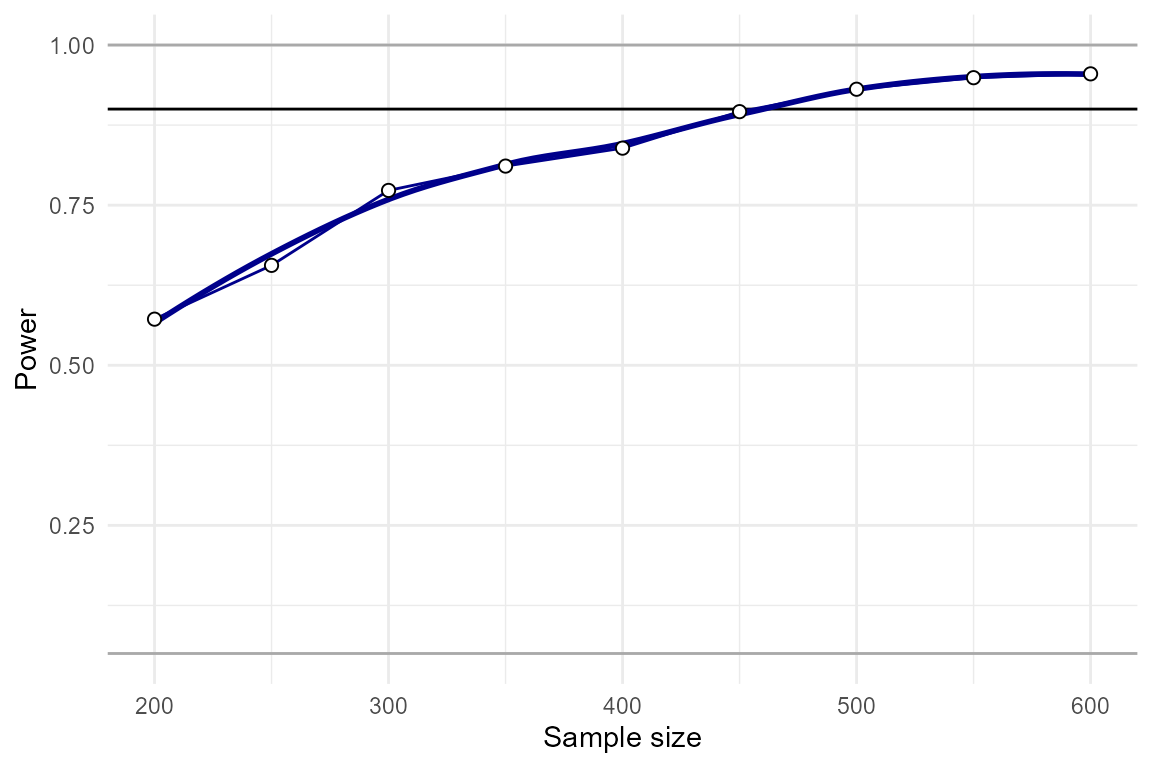
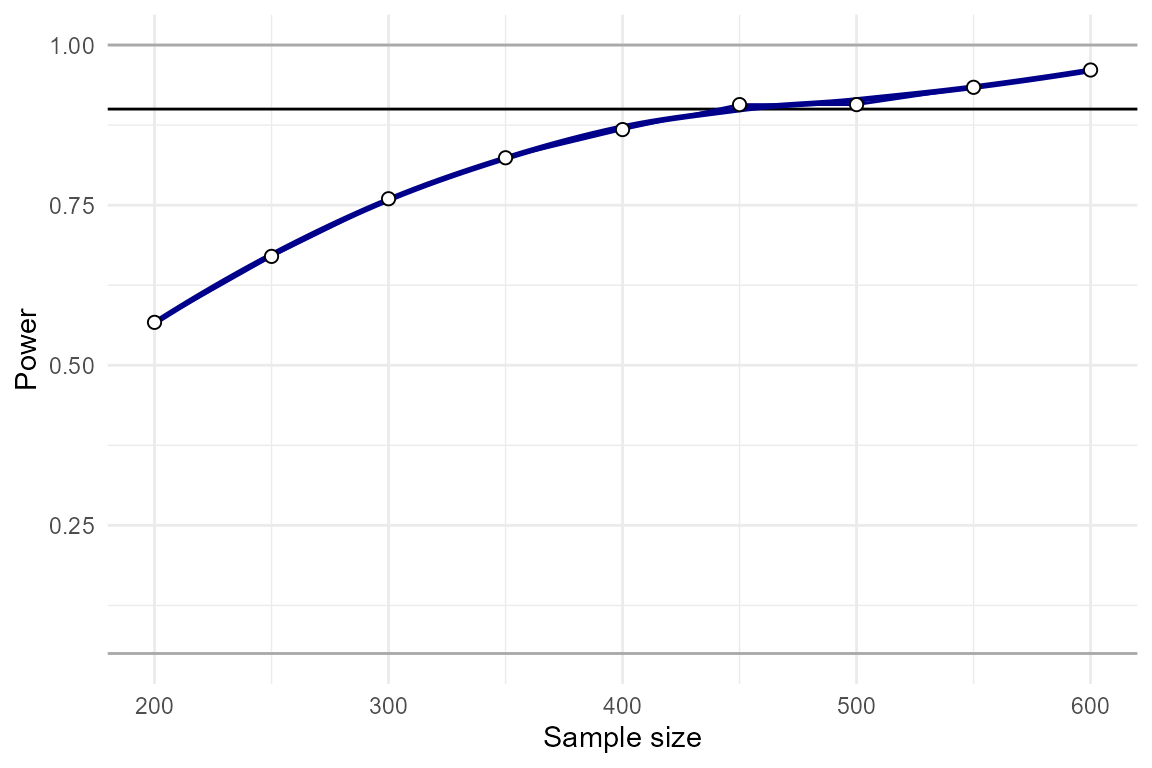
minor fix

diff --git a/docs/articles/InteractionPoweRvignette.html b/docs/articles/InteractionPoweRvignette.html
@@ -237,22 +237,22 @@ Y \sim \beta_0 + X_1\beta_1 + X_2\beta_2 + X_1X_2\beta_3 + \epsilon
                   r.x2.y <span class="op">=</span>  <span class="fl">.1</span>,                  <span class="co"># correlation between x2 and y</span>
                   r.x1.x2 <span class="op">=</span> <span class="fl">.2</span>,                  <span class="co"># correlation between x1 and x2</span>
                   r.x1x2.y <span class="op">=</span> <span class="fl">.15</span>,                <span class="co"># correlation between x1x2 and y</span>
-                  cl <span class="op">=</span> <span class="fl">6</span>,                        <span class="co"># number of clusters for parallel analyses</span>
+                  cl <span class="op">=</span> <span class="fl">2</span>,                        <span class="co"># number of clusters for parallel analyses</span>
                   seed <span class="op">=</span> <span class="fl">507421</span>        <span class="op">)</span>         <span class="co"># seed</span></code></pre></div>
 <pre><code><span class="co">## [1] "Checking for errors in inputs..."</span>
 <span class="co">## [1] "Performing 9000 simulations"</span></code></pre>
 <div class="sourceCode" id="cb11"><pre class="downlit sourceCode r">
 <code class="sourceCode R"><span class="va">power_test</span></code></pre></div>
 <pre><code><span class="co">##     N   pwr</span>
-<span class="co">## 9 200 0.572</span>
-<span class="co">## 3 250 0.656</span>
-<span class="co">## 8 300 0.773</span>
-<span class="co">## 1 350 0.811</span>
-<span class="co">## 2 400 0.839</span>
-<span class="co">## 5 450 0.896</span>
-<span class="co">## 4 500 0.931</span>
-<span class="co">## 7 550 0.949</span>
-<span class="co">## 6 600 0.955</span></code></pre>
+<span class="co">## 6 200 0.567</span>
+<span class="co">## 7 250 0.670</span>
+<span class="co">## 1 300 0.760</span>
+<span class="co">## 2 350 0.824</span>
+<span class="co">## 3 400 0.868</span>
+<span class="co">## 4 450 0.907</span>
+<span class="co">## 8 500 0.907</span>
+<span class="co">## 9 550 0.934</span>
+<span class="co">## 5 600 0.961</span></code></pre>
 <p>We can plot these results using the function <code><a href="../reference/plot_power_curve.html">plot_power_curve()</a></code>:</p>
 <div class="sourceCode" id="cb13"><pre class="downlit sourceCode r">
 <code class="sourceCode R"><span class="fu"><a href="../reference/plot_power_curve.html">plot_power_curve</a></span><span class="op">(</span>power_data <span class="op">=</span> <span class="va">power_test</span>, <span class="co"># output from power_interaction()</span>
@@ -265,7 +265,7 @@ Y \sim \beta_0 + X_1\beta_1 + X_2\beta_2 + X_1X_2\beta_3 + \epsilon
                         x <span class="op">=</span> <span class="st">"N"</span>,        <span class="co"># the variable we want a precise number for</span>
              power_target <span class="op">=</span> <span class="fl">0.9</span>         <span class="co"># the power we want to achieve </span>
 <span class="op">)</span></code></pre></div>
-<pre><code><span class="co">## [1] 449.3587</span></code></pre>
+<pre><code><span class="co">## [1] 441.0214</span></code></pre>
 <p>Our guess turned out to be accurate in this case, and N=443 yields approximately 90% power.</p>
 </div>
 <div class="section level3">
@@ -280,24 +280,24 @@ Y \sim \beta_0 + X_1\beta_1 + X_2\beta_2 + X_1X_2\beta_3 + \epsilon
                   r.x2.y <span class="op">=</span>  <span class="fl">.1</span>,                  <span class="co"># correlation between x2 and y</span>
                   r.x1.x2 <span class="op">=</span> <span class="fl">.2</span>,                  <span class="co"># correlation between x1 and x2</span>
                   r.x1x2.y <span class="op">=</span> <span class="fu"><a href="https://rdrr.io/r/base/seq.html" class="external-link">seq</a></span><span class="op">(</span><span class="fl">.1</span>,<span class="fl">.2</span>,by<span class="op">=</span><span class="fl">.01</span><span class="op">)</span>,  <span class="co"># correlation between x1x2 and y</span>
-                  cl <span class="op">=</span> <span class="fl">6</span>,                        <span class="co"># number of clusters for parallel analyses</span>
+                  cl <span class="op">=</span> <span class="fl">2</span>,                        <span class="co"># number of clusters for parallel analyses</span>
                   seed <span class="op">=</span> <span class="fl">387455</span>        <span class="op">)</span>         <span class="co"># seed</span></code></pre></div>
 <pre><code><span class="co">## [1] "Checking for errors in inputs..."</span>
 <span class="co">## [1] "Performing 11000 simulations"</span></code></pre>
 <div class="sourceCode" id="cb18"><pre class="downlit sourceCode r">
 <code class="sourceCode R"><span class="va">power_test</span></code></pre></div>
 <pre><code><span class="co">##    r.x1x2.y   pwr</span>
-<span class="co">## 9      0.10 0.486</span>
-<span class="co">## 3      0.11 0.536</span>
-<span class="co">## 5      0.12 0.633</span>
-<span class="co">## 1      0.13 0.687</span>
-<span class="co">## 10     0.14 0.757</span>
-<span class="co">## 2      0.15 0.823</span>
-<span class="co">## 11     0.16 0.866</span>
-<span class="co">## 7      0.17 0.891</span>
-<span class="co">## 8      0.18 0.910</span>
-<span class="co">## 6      0.19 0.933</span>
-<span class="co">## 4      0.20 0.964</span></code></pre>
+<span class="co">## 1      0.10 0.467</span>
+<span class="co">## 7      0.11 0.536</span>
+<span class="co">## 2      0.12 0.653</span>
+<span class="co">## 3      0.13 0.680</span>
+<span class="co">## 4      0.14 0.765</span>
+<span class="co">## 5      0.15 0.804</span>
+<span class="co">## 8      0.16 0.875</span>
+<span class="co">## 9      0.17 0.904</span>
+<span class="co">## 10     0.18 0.915</span>
+<span class="co">## 6      0.19 0.941</span>
+<span class="co">## 11     0.20 0.959</span></code></pre>
 <div class="sourceCode" id="cb20"><pre class="downlit sourceCode r">
 <code class="sourceCode R"><span class="fu"><a href="../reference/plot_power_curve.html">plot_power_curve</a></span><span class="op">(</span>power_data <span class="op">=</span> <span class="va">power_test</span>, <span class="co"># output from power_interaction()</span>
                  power_target <span class="op">=</span> <span class="fl">.9</span>        <span class="co"># the power we want to achieve </span>
@@ -308,7 +308,7 @@ Y \sim \beta_0 + X_1\beta_1 + X_2\beta_2 + X_1X_2\beta_3 + \epsilon
                         x <span class="op">=</span> <span class="st">"r.x1x2.y"</span>,        <span class="co"># the variable we want a precise number for</span>
              power_target <span class="op">=</span> <span class="fl">0.9</span>         <span class="co"># the power we want to achieve </span>
 <span class="op">)</span></code></pre></div>
-<pre><code><span class="co">## [1] 0.1734518</span></code></pre>
+<pre><code><span class="co">## [1] 0.1712896</span></code></pre>
 <p>We see that we have approximately 90% power to detect effects as small as <code>r.x1x2.y</code> = 0.17.</p>
 <p>In some cases it may also be useful to take a look the distribution of simple slopes across the range of parameters tested. If we re-run our simulation using <code>detailed_results=T</code>, we can look at the distribution of effect sizes and simple slopes.</p>
 <div class="sourceCode" id="cb23"><pre class="downlit sourceCode r">
@@ -319,7 +319,7 @@ Y \sim \beta_0 + X_1\beta_1 + X_2\beta_2 + X_1X_2\beta_3 + \epsilon
                   r.x2.y <span class="op">=</span>  <span class="fl">.1</span>,                  <span class="co"># correlation between x2 and y</span>
                   r.x1.x2 <span class="op">=</span> <span class="fl">.2</span>,                  <span class="co"># correlation between x1 and x2</span>
                   r.x1x2.y <span class="op">=</span> <span class="fu"><a href="https://rdrr.io/r/base/seq.html" class="external-link">seq</a></span><span class="op">(</span><span class="fl">.1</span>,<span class="fl">.2</span>,by<span class="op">=</span><span class="fl">.01</span><span class="op">)</span>,   <span class="co"># correlation between x1x2 and y</span>
-                  cl <span class="op">=</span> <span class="fl">6</span>,                         <span class="co"># number of clusters for parallel analyses</span>
+                  cl <span class="op">=</span> <span class="fl">2</span>,                         <span class="co"># number of clusters for parallel analyses</span>
                   detailed_results <span class="op">=</span> <span class="cn">T</span>,           <span class="co"># detailed results</span>
                   seed <span class="op">=</span> <span class="fl">316834</span>                  <span class="co"># seed</span>
                 <span class="op">)</span></code></pre></div>
@@ -342,7 +342,7 @@ Y \sim \beta_0 + X_1\beta_1 + X_2\beta_2 + X_1X_2\beta_3 + \epsilon
                   r.x2.y <span class="op">=</span> <span class="fl">.1</span>,                    <span class="co"># correlation between x2 and y</span>
                   r.x1.x2 <span class="op">=</span> <span class="fl">.2</span>       ,            <span class="co"># correlation between x1 and x2</span>
                   r.x1x2.y <span class="op">=</span> <span class="fu"><a href="https://rdrr.io/r/base/seq.html" class="external-link">seq</a></span><span class="op">(</span><span class="fl">.15</span>,<span class="fl">.2</span>,by<span class="op">=</span><span class="fl">.025</span><span class="op">)</span>, <span class="co"># correlation between x1x2 and y</span>
-                  cl <span class="op">=</span> <span class="fl">6</span>,                         <span class="co"># number of clusters for parallel analyses</span>
+                  cl <span class="op">=</span> <span class="fl">2</span>,                         <span class="co"># number of clusters for parallel analyses</span>
                   detailed_results <span class="op">=</span> <span class="cn">T</span>,
                   seed <span class="op">=</span> <span class="fl">742425</span><span class="op">)</span></code></pre></div>
 <pre><code><span class="co">## [1] "Checking for errors in inputs..."</span>
@@ -360,9 +360,9 @@ Y \sim \beta_0 + X_1\beta_1 + X_2\beta_2 + X_1X_2\beta_3 + \epsilon
              power_target <span class="op">=</span> <span class="fl">0.9</span>         <span class="co"># the power we want to achieve </span>
 <span class="op">)</span></code></pre></div>
 <pre><code><span class="co">##   r.x1x2.y estimate</span>
-<span class="co">## 1    0.150 442.0470</span>
-<span class="co">## 2    0.175 331.1472</span>
-<span class="co">## 3    0.200 268.3371</span></code></pre>
+<span class="co">## 1    0.150 447.9153</span>
+<span class="co">## 2    0.175 330.1380</span>
+<span class="co">## 3    0.200 250.1208</span></code></pre>
 <p>From this we’ve learned that, depending on exactly what effect size we’re aiming for, we’ll need an <code>N</code> between 260 and 460.</p>
 </div>
 </div>
@@ -381,7 +381,7 @@ Y \sim \beta_0 + X_1\beta_1 + X_2\beta_2 + X_1X_2\beta_3 + \epsilon
                   rel.x1 <span class="op">=</span>  <span class="fu"><a href="https://rdrr.io/r/base/seq.html" class="external-link">seq</a></span><span class="op">(</span><span class="fl">.4</span>,<span class="fl">1</span>,by<span class="op">=</span><span class="fl">.2</span><span class="op">)</span>,      <span class="co"># x1 reliability    </span>
                   rel.x2 <span class="op">=</span>  <span class="fu"><a href="https://rdrr.io/r/base/seq.html" class="external-link">seq</a></span><span class="op">(</span><span class="fl">.4</span>,<span class="fl">1</span>,by<span class="op">=</span><span class="fl">.2</span><span class="op">)</span>,      <span class="co"># x2 reliability          </span>
                   rel.y  <span class="op">=</span>  <span class="fu"><a href="https://rdrr.io/r/base/seq.html" class="external-link">seq</a></span><span class="op">(</span><span class="fl">.4</span>,<span class="fl">1</span>,by<span class="op">=</span><span class="fl">.2</span><span class="op">)</span>,      <span class="co"># y reliability          </span>
-                  cl <span class="op">=</span> <span class="fl">6</span>,                         <span class="co"># number of clusters for parallel analyses</span>
+                  cl <span class="op">=</span> <span class="fl">2</span>,                         <span class="co"># number of clusters for parallel analyses</span>
                   seed <span class="op">=</span> <span class="fl">293437</span>        <span class="op">)</span></code></pre></div>
 <pre><code><span class="co">## [1] "Checking for errors in inputs..."</span>
 <span class="co">## [1] "Performing 64000 simulations"</span></code></pre>
@@ -396,11 +396,11 @@ Y \sim \beta_0 + X_1\beta_1 + X_2\beta_2 + X_1X_2\beta_3 + \epsilon
 <p>These plots make it clear how large of an effect reliability will have on your results. In this simulation, even a reliability of “acceptable” or “good” (reliability = 0.8), is enough to bring our power down, from 0.9 to 0.63!</p>
 </div>
 <div class="section level2">
-<h2 id="binarylikert-and-skewed-variables">Binary/Likert and skewed variables<a class="anchor" aria-label="anchor" href="#binarylikert-and-skewed-variables"></a>
+<h2 id="binaryordinal-and-skewed-variables">Binary/ordinal and skewed variables<a class="anchor" aria-label="anchor" href="#binaryordinal-and-skewed-variables"></a>
 </h2>
-<p><code>InteractionPoweR</code> simulates all variables as continuous and normal (skew=0). However, variables can be transformed so that they are binary/likert (e.g., 5 discrete levels, though any value under 20 is possible) and/or skewed. Typically, when a continuous and normal variable is transformed to be binary/likert and/or skewed, the correlations between that variable and all other variables are reduced or altered. Sometimes, it makes sense for this to happen in the power analysis. For example, say a variable is continuous in the literature, and the effect sizes in the power analysis are drawn from prior work with the continuous variable, but in your analysis you’ve chosen to dichotomize that variable or to measure that trait with a likert scale. In that case, the reduction in correlations makes sense, because that accurately reflects your data analysis and what your power will be. On the other hand, say a variable <em>is</em> binary (at least in the literature), maybe you’re looking at sex or diagnosis for a disorder. Or maybe you are looking at a variable that is skewed in the literature, such as alcohol consumption or depressive symptoms in the general population. In that case, your input correlations are the correlations <em>with the binary/skewed variable</em>, so you don’t want them to be reduced or altered.</p>
-<p><code>InteractionPoweR</code> distinguishes between these cases with the <code>adjust.correlations</code> flag. The default is <code>adjust.correlations = TRUE</code>. This indicates that the input correlations are with the binary/likert/skewed variables. To circumvent the problem of variable transformations altering correlations, <code>InteractionPoweR</code> runs a function to compute how much the input correlations need to be adjusted so that the final output variables have the correlation structure specified by the user. When <code>adjust.correlations = FALSE</code>, this function is not run, allowing the user to see the impact of variable transformations on the correlation structure, and on their power.</p>
-<p>The flags <code>skew.x1</code>, <code>skew.x2</code>, and <code>skew.y</code> control the skew of <span class="math inline">\(X_1\)</span>, <span class="math inline">\(X_2\)</span>, and <span class="math inline">\(Y\)</span>. We achieve skew by transforming the normally distributed variable to a skewed gamma distribution. The flags <code>k.x1</code>, <code>k.x2</code>, and <code>k.y</code> control the number of discrete values each variable takes (i.e., <code>k.x1 =2</code> means that <code>x1</code> is a binary variable, while <code>k.x2 = 5</code> means that <code>x2</code> is a likert-variable). If a variable is binary (i.e., <code>k=2</code>), the <code><a href="../reference/binary.p2skew.html">binary.p2skew()</a></code> convenience function can be used to compute the skew from the proportion of 0’s and 1’s (i.e. 50/50 = 0.5 = a skew of 0). If a variable is binarized but no skew is specified, skew will be set to <code>0</code> by default. The flags <code>transform.x1</code>, <code>transform.x2</code>, and <code>transform.y</code>are retained for backwards compatibility with prior versions of the package. Setting one of these to <code>"binary"</code> is equivalent to <code>k=2</code>.</p>
+<p><code>InteractionPoweR</code> simulates all variables as continuous and normal (skew=0). However, variables can be transformed so that they are binary/ordinal (e.g., 5 discrete levels, though any value under 20 is possible) and/or skewed. Typically, when a continuous and normal variable is transformed to be binary/ordinal and/or skewed, the correlations between that variable and all other variables are reduced or altered. Sometimes, it makes sense for this to happen in the power analysis. For example, say a variable is continuous in the literature, and the effect sizes in the power analysis are drawn from prior work with the continuous variable, but in your analysis you’ve chosen to dichotomize that variable or to measure that trait with a ordinal scale. In that case, the reduction in correlations makes sense, because that accurately reflects your data analysis and what your power will be. On the other hand, say a variable <em>is</em> binary (at least in the literature), maybe you’re looking at sex or diagnosis for a disorder. Or maybe you are looking at a variable that is skewed in the literature, such as alcohol consumption or depressive symptoms in the general population. In that case, your input correlations are the correlations <em>with the binary/skewed variable</em>, so you don’t want them to be reduced or altered.</p>
+<p><code>InteractionPoweR</code> distinguishes between these cases with the <code>adjust.correlations</code> flag. The default is <code>adjust.correlations = TRUE</code>. This indicates that the input correlations are with the binary/ordinal/skewed variables. To circumvent the problem of variable transformations altering correlations, <code>InteractionPoweR</code> runs a function to compute how much the input correlations need to be adjusted so that the final output variables have the correlation structure specified by the user. When <code>adjust.correlations = FALSE</code>, this function is not run, allowing the user to see the impact of variable transformations on the correlation structure, and on their power.</p>
+<p>The flags <code>skew.x1</code>, <code>skew.x2</code>, and <code>skew.y</code> control the skew of <span class="math inline">\(X_1\)</span>, <span class="math inline">\(X_2\)</span>, and <span class="math inline">\(Y\)</span>. We achieve skew by transforming the normally distributed variable to a skewed gamma distribution. The flags <code>k.x1</code>, <code>k.x2</code>, and <code>k.y</code> control the number of discrete values each variable takes (i.e., <code>k.x1 =2</code> means that <code>x1</code> is a binary variable, while <code>k.x2 = 5</code> means that <code>x2</code> is a ordinal-variable). If a variable is binary (i.e., <code>k=2</code>), the <code><a href="../reference/binary.p2skew.html">binary.p2skew()</a></code> convenience function can be used to compute the skew from the proportion of 0’s and 1’s (i.e. 50/50 = 0.5 = a skew of 0). If a variable is binarized but no skew is specified, skew will be set to <code>0</code> by default. The flags <code>transform.x1</code>, <code>transform.x2</code>, and <code>transform.y</code>are retained for backwards compatibility with prior versions of the package. Setting one of these to <code>"binary"</code> is equivalent to <code>k=2</code>.</p>
 <div class="section level3">
 <h3 id="binary">Binary<a class="anchor" aria-label="anchor" href="#binary"></a>
 </h3>
@@ -421,22 +421,22 @@ Y \sim \beta_0 + X_1\beta_1 + X_2\beta_2 + X_1X_2\beta_3 + \epsilon
 <p><img src="InteractionPoweRvignette_files/figure-html/fig8-1.png" width="576" style="display: block; margin: auto;"></p>
 </div>
 <div class="section level3">
-<h3 id="likert">Likert<a class="anchor" aria-label="anchor" href="#likert"></a>
+<h3 id="ordinal">ordinal<a class="anchor" aria-label="anchor" href="#ordinal"></a>
 </h3>
 <p>Here’s an example showing the effects of artificially discretizing <code>x1</code> on power. We see that power is lower when there are fewer discrete values.</p>
 <div class="sourceCode" id="cb35"><pre class="downlit sourceCode r">
 <code class="sourceCode R"><span class="va">power_test</span> <span class="op">=</span> <span class="fu"><a href="../reference/power_interaction.html">power_interaction</a></span><span class="op">(</span>
-                  n.iter<span class="op">=</span><span class="fl">10000</span>,
+                  n.iter<span class="op">=</span><span class="fl">1000</span>,
                   N <span class="op">=</span> <span class="fl">450</span>,                        <span class="co"># sample size</span>
                   r.x1.y <span class="op">=</span> <span class="fl">.2</span>,                    <span class="co"># correlation between x1 and y</span>
                   r.x2.y <span class="op">=</span> <span class="fl">.1</span>,                    <span class="co"># correlation between x2 and y</span>
                   r.x1.x2 <span class="op">=</span> <span class="fl">.2</span>,                   <span class="co"># correlation between x1 and x2</span>
                   r.x1x2.y <span class="op">=</span> <span class="fl">.15</span>,                 <span class="co"># correlation between x1x2 and y</span>
                   k.x1 <span class="op">=</span> <span class="fu"><a href="https://rdrr.io/r/base/seq.html" class="external-link">seq</a></span><span class="op">(</span><span class="fl">2</span>,<span class="fl">10</span>,<span class="fl">2</span><span class="op">)</span>,             <span class="co"># x1 has 2-10 discrete values</span>
-                  adjust.correlations <span class="op">=</span> <span class="cn">FALSE</span>,cl<span class="op">=</span><span class="fl">5</span><span class="op">)</span>     <span class="co"># Adjust correlations for skew?  </span></code></pre></div>
-<pre><code><span class="co">## [1] "Seed is 878089"</span>
+                  adjust.correlations <span class="op">=</span> <span class="cn">FALSE</span>,cl<span class="op">=</span><span class="fl">2</span><span class="op">)</span>     <span class="co"># Adjust correlations for skew?  </span></code></pre></div>
+<pre><code><span class="co">## [1] "Seed is 546648"</span>
 <span class="co">## [1] "Checking for errors in inputs..."</span>
-<span class="co">## [1] "Performing 50000 simulations"</span></code></pre>
+<span class="co">## [1] "Performing 5000 simulations"</span></code></pre>
 <div class="sourceCode" id="cb37"><pre class="downlit sourceCode r">
 <code class="sourceCode R"><span class="fu"><a href="../reference/plot_power_curve.html">plot_power_curve</a></span><span class="op">(</span><span class="va">power_test</span>,power_target <span class="op">=</span> <span class="fl">.9</span><span class="op">)</span></code></pre></div>
 <p><img src="InteractionPoweRvignette_files/figure-html/fig9-1.png" width="576" style="display: block; margin: auto;"></p>
@@ -455,7 +455,7 @@ Y \sim \beta_0 + X_1\beta_1 + X_2\beta_2 + X_1X_2\beta_3 + \epsilon
                   r.x1x2.y <span class="op">=</span> <span class="fl">.15</span>,                 <span class="co"># correlation between x1x2 and y</span>
                   skew.x1 <span class="op">=</span> <span class="fu"><a href="https://rdrr.io/r/base/seq.html" class="external-link">seq</a></span><span class="op">(</span><span class="fl">0</span>,<span class="fl">2</span>,by<span class="op">=</span><span class="fl">.25</span><span class="op">)</span>,      <span class="co"># x1 skew </span>
                   adjust.correlations <span class="op">=</span> <span class="cn">TRUE</span>,     <span class="co"># Adjust correlations for skew?</span>
-                  cl <span class="op">=</span> <span class="fl">6</span> ,                        <span class="co"># number of clusters for parallel analyses</span>
+                  cl <span class="op">=</span> <span class="fl">2</span> ,                        <span class="co"># number of clusters for parallel analyses</span>
                   seed <span class="op">=</span> <span class="fl">73070</span>      <span class="op">)</span></code></pre></div>
 <pre><code><span class="co">## [1] "Checking for errors in inputs..."</span>
 <span class="co">## [1] "Adjusting correlations for variable transformations..."</span>
@@ -483,44 +483,44 @@ Y \sim \beta_0 + X_1\beta_1 + X_2\beta_2 + X_1X_2\beta_3 + \epsilon
                   r.x2.y <span class="op">=</span>  <span class="fl">.1</span>,                  <span class="co"># correlation between x2 and y</span>
                   r.x1.x2 <span class="op">=</span> <span class="fl">.2</span>,                  <span class="co"># correlation between x1 and x2</span>
                   r.x1x2.y <span class="op">=</span> <span class="fl">.4</span>,                 <span class="co"># correlation between x1x2 and y</span>
-                  cl <span class="op">=</span> <span class="fl">4</span>,                        <span class="co"># number of clusters for parallel analyses</span>
+                  cl <span class="op">=</span> <span class="fl">2</span>,                        <span class="co"># number of clusters for parallel analyses</span>
                   detailed_results <span class="op">=</span> <span class="cn">TRUE</span>        <span class="co"># return detailed results       </span>
                    <span class="op">)</span></code></pre></div>
-<pre><code><span class="co">## [1] "Seed is 548071"</span>
+<pre><code><span class="co">## [1] "Seed is 8564"</span>
 <span class="co">## [1] "Checking for errors in inputs..."</span>
 <span class="co">## [1] "Performing 4000 simulations"</span></code></pre>
 <div class="sourceCode" id="cb43"><pre class="downlit sourceCode r">
 <code class="sourceCode R"><span class="va">power_test</span></code></pre></div>
 <pre><code><span class="co">##     N   pwr x1_pwr x2_pwr x1x2_est_mean x1x2_r2_mean crossover_mean shape_mean</span>
-<span class="co">## 4  50 0.766  0.721  0.910     0.4536953    0.1848429     -0.1444144   3.694219</span>
-<span class="co">## 2 100 0.977  0.497  0.897     0.3972518    0.1531496     -0.1873501   2.723308</span>
-<span class="co">## 3 150 0.996  0.294  0.872     0.3859812    0.1498095     -0.1632499   2.853891</span>
-<span class="co">## 1 200 1.000  0.187  0.827     0.3905487    0.1536894     -0.1665251   2.472277</span>
+<span class="co">## 1  50 0.784  0.724  0.934     0.4396218    0.1755323     -0.1768402   2.778960</span>
+<span class="co">## 2 100 0.975  0.514  0.898     0.4000345    0.1557723     -0.1727934   3.125164</span>
+<span class="co">## 3 150 0.997  0.330  0.859     0.3935693    0.1536631     -0.1777844   8.743583</span>
+<span class="co">## 4 200 1.000  0.205  0.823     0.3900645    0.1534402     -0.1752575   2.637965</span>
 <span class="co">##   shape_q_2.5 shape_q_97.5 crossover_q_2.5 crossover_q_97.5    min.lwr</span>
-<span class="co">## 4 -18.3021533    21.120756      -0.9254724        0.5590299 -0.5876968</span>
-<span class="co">## 2   0.7119457    12.184385      -0.6994125        0.3219036 -0.4075435</span>
-<span class="co">## 3   0.9317086     8.328247      -0.6397440        0.2422763 -0.3482220</span>
-<span class="co">## 1   1.0668059     7.205046      -0.5444196        0.1849277 -0.3208586</span>
+<span class="co">## 1   -7.402391    25.714963      -0.9012369        0.4309545 -0.5372973</span>
+<span class="co">## 2   -5.538762    10.500007      -0.7753002        0.3325565 -0.4444916</span>
+<span class="co">## 3    0.983842     8.178442      -0.6103052        0.2283472 -0.3815869</span>
+<span class="co">## 4    1.078535     7.039999      -0.5469701        0.1513282 -0.3440493</span>
 <span class="co">##      min.upr   max.lwr   max.upr x1x2_95_CI_2.5_mean x1x2_95_CI_97.5_mean</span>
-<span class="co">## 4 0.22025919 0.1779296 0.9671159           0.1850766            0.7223140</span>
-<span class="co">## 2 0.15915727 0.2311796 0.7998286           0.2131116            0.5813920</span>
-<span class="co">## 3 0.10378754 0.2583628 0.7640846           0.2389831            0.5329792</span>
-<span class="co">## 1 0.06685582 0.3048985 0.7085100           0.2645307            0.5165668</span>
+<span class="co">## 1 0.21347774 0.1543921 0.9334462           0.1715979            0.7076457</span>
+<span class="co">## 2 0.16010414 0.2160005 0.8039076           0.2158121            0.5842568</span>
+<span class="co">## 3 0.11317787 0.2744178 0.7448703           0.2457943            0.5413442</span>
+<span class="co">## 4 0.07411264 0.2878489 0.7230726           0.2638026            0.5163264</span>
 <span class="co">##   x1x2_95_CI_width_mean r_y_x1x2_q_2.5 r_y_x1x2_q_50.0 r_y_x1x2_q_97.5</span>
-<span class="co">## 4             0.5372373      0.2511221       0.4486917       0.6632277</span>
-<span class="co">## 2             0.3682805      0.2178719       0.4036040       0.5745655</span>
-<span class="co">## 3             0.2939960      0.2238670       0.3938605       0.5373888</span>
-<span class="co">## 1             0.2520361      0.2585531       0.3966941       0.5290486</span>
+<span class="co">## 1             0.5360477      0.2363389       0.4291214       0.6617950</span>
+<span class="co">## 2             0.3684447      0.2231182       0.4017803       0.5740193</span>
+<span class="co">## 3             0.2955499      0.2341655       0.3996251       0.5487754</span>
+<span class="co">## 4             0.2525239      0.2560891       0.3965004       0.5297396</span>
 <span class="co">##   x1_est_mean x2_est_mean r_x1_y_mean r_x2_y_mean r_x1_x2_mean r_y_x1x2_mean</span>
-<span class="co">## 4   0.1881823  0.06141081   0.1960492  0.09581274    0.2036743     0.4464441</span>
-<span class="co">## 2   0.1872613  0.07114802   0.1996491  0.10831640    0.1989920     0.3988255</span>
-<span class="co">## 3   0.1891991  0.06136325   0.2016675  0.09795822    0.1996625     0.3920269</span>
-<span class="co">## 1   0.1866205  0.06324363   0.1997234  0.09952032    0.1993793     0.3956262</span>
+<span class="co">## 1   0.1858322  0.07120646   0.1944123  0.10839836    0.2072784     0.4343746</span>
+<span class="co">## 2   0.1846094  0.06539229   0.1927725  0.09836801    0.1998706     0.4011194</span>
+<span class="co">## 3   0.1831947  0.06753903   0.1960705  0.10578625    0.1991194     0.3964611</span>
+<span class="co">## 4   0.1816829  0.06666561   0.1943286  0.10210319    0.1992850     0.3945857</span>
 <span class="co">##   r_x1_x1x2_mean r_x2_x1x2_mean</span>
-<span class="co">## 4  -0.0001681784  -2.044926e-05</span>
-<span class="co">## 2   0.0001481677   1.385871e-03</span>
-<span class="co">## 3   0.0026179166  -3.026054e-03</span>
-<span class="co">## 1   0.0032776196  -1.337665e-03</span></code></pre>
+<span class="co">## 1  -0.0083153420   0.0003857908</span>
+<span class="co">## 2  -0.0065243208  -0.0064658513</span>
+<span class="co">## 3   0.0015769269   0.0067135435</span>
+<span class="co">## 4  -0.0002570351  -0.0015671365</span></code></pre>
 <p>What is all this?</p>
 <p>The first two columns are our standard output, the setting that was varied across simulations, and the power. Next we have <code>x1_pwr1</code> and <code>x2_pwr</code>. This is the power to detect an effect of x1 and x2 <em>in the interaction model</em>. <code>x1x2_est_mean</code> and <code>x1x2_r2_mean</code> are then the <em>mean</em> effect size (<span class="math inline">\(B_3\)</span>) and mean change in the adjusted <span class="math inline">\(R^2\)</span> (or pseudo-<span class="math inline">\(R^2\)</span> when <span class="math inline">\(Y\)</span> is binary) when the interaction term <span class="math inline">\(X_1X_2\)</span> is added to the model. <code>crossover</code> and <code>shape</code> are the value of <span class="math inline">\(X_1\)</span> where the <span class="math inline">\(X_2\)</span> simple slopes intersect, and the shape of the interaction (<span class="math inline">\(B_3 / B_1\)</span>), which reflects whether it is a knock-out, attenuated, or crossover interaction. We also give the mean upper and lower bounds of the 95% confidence interval of the shape and crossover.</p>
 <p>For example, one interesting insight we can gain here is that even though <code>n=50</code> has <em>76%</em> power in this analysis, the <em>observed</em> <code>shape</code> will vary widely. The confidence interval indicates that it is even likely that we will observe significant effects where the interaction has the <em>opposite</em> shape from anticipated. In fact, we don’t see 95% of simulations yielding a shape that is consistent with our hypothesis that <code>r.x1x2.y &gt; r.x1.y</code>, until <code>N=200</code>, which has <em>99.99%</em> power!</p>

diff --git a/docs/reference/norm2ordinal.html b/docs/reference/norm2ordinal.html
@@ -1,0 +1,134 @@
+<!DOCTYPE html>
+<!-- Generated by pkgdown: do not edit by hand --><html lang="en"><head><meta http-equiv="Content-Type" content="text/html; charset=UTF-8"><meta charset="utf-8"><meta http-equiv="X-UA-Compatible" content="IE=edge"><meta name="viewport" content="width=device-width, initial-scale=1.0"><title>norm2ordinal — norm2ordinal • InteractionPoweR</title><!-- favicons --><link rel="icon" type="image/png" sizes="16x16" href="../favicon-16x16.png"><link rel="icon" type="image/png" sizes="32x32" href="../favicon-32x32.png"><link rel="apple-touch-icon" type="image/png" sizes="180x180" href="../apple-touch-icon.png"><link rel="apple-touch-icon" type="image/png" sizes="120x120" href="../apple-touch-icon-120x120.png"><link rel="apple-touch-icon" type="image/png" sizes="76x76" href="../apple-touch-icon-76x76.png"><link rel="apple-touch-icon" type="image/png" sizes="60x60" href="../apple-touch-icon-60x60.png"><!-- jquery --><script src="https://cdnjs.cloudflare.com/ajax/libs/jquery/3.4.1/jquery.min.js" integrity="sha256-CSXorXvZcTkaix6Yvo6HppcZGetbYMGWSFlBw8HfCJo=" crossorigin="anonymous"></script><!-- Bootstrap --><link rel="stylesheet" href="https://cdnjs.cloudflare.com/ajax/libs/twitter-bootstrap/3.4.1/css/bootstrap.min.css" integrity="sha256-bZLfwXAP04zRMK2BjiO8iu9pf4FbLqX6zitd+tIvLhE=" crossorigin="anonymous"><script src="https://cdnjs.cloudflare.com/ajax/libs/twitter-bootstrap/3.4.1/js/bootstrap.min.js" integrity="sha256-nuL8/2cJ5NDSSwnKD8VqreErSWHtnEP9E7AySL+1ev4=" crossorigin="anonymous"></script><!-- bootstrap-toc --><link rel="stylesheet" href="../bootstrap-toc.css"><script src="../bootstrap-toc.js"></script><!-- Font Awesome icons --><link rel="stylesheet" href="https://cdnjs.cloudflare.com/ajax/libs/font-awesome/5.12.1/css/all.min.css" integrity="sha256-mmgLkCYLUQbXn0B1SRqzHar6dCnv9oZFPEC1g1cwlkk=" crossorigin="anonymous"><link rel="stylesheet" href="https://cdnjs.cloudflare.com/ajax/libs/font-awesome/5.12.1/css/v4-shims.min.css" integrity="sha256-wZjR52fzng1pJHwx4aV2AO3yyTOXrcDW7jBpJtTwVxw=" crossorigin="anonymous"><!-- clipboard.js --><script src="https://cdnjs.cloudflare.com/ajax/libs/clipboard.js/2.0.6/clipboard.min.js" integrity="sha256-inc5kl9MA1hkeYUt+EC3BhlIgyp/2jDIyBLS6k3UxPI=" crossorigin="anonymous"></script><!-- headroom.js --><script src="https://cdnjs.cloudflare.com/ajax/libs/headroom/0.11.0/headroom.min.js" integrity="sha256-AsUX4SJE1+yuDu5+mAVzJbuYNPHj/WroHuZ8Ir/CkE0=" crossorigin="anonymous"></script><script src="https://cdnjs.cloudflare.com/ajax/libs/headroom/0.11.0/jQuery.headroom.min.js" integrity="sha256-ZX/yNShbjqsohH1k95liqY9Gd8uOiE1S4vZc+9KQ1K4=" crossorigin="anonymous"></script><!-- pkgdown --><link href="../pkgdown.css" rel="stylesheet"><script src="../pkgdown.js"></script><!-- docsearch --><script src="../docsearch.js"></script><link rel="stylesheet" href="https://cdnjs.cloudflare.com/ajax/libs/docsearch.js/2.6.3/docsearch.min.css" integrity="sha256-QOSRU/ra9ActyXkIBbiIB144aDBdtvXBcNc3OTNuX/Q=" crossorigin="anonymous"><link href="../docsearch.css" rel="stylesheet"><script src="https://cdnjs.cloudflare.com/ajax/libs/mark.js/8.11.1/jquery.mark.min.js" integrity="sha256-4HLtjeVgH0eIB3aZ9mLYF6E8oU5chNdjU6p6rrXpl9U=" crossorigin="anonymous"></script><meta property="og:title" content="norm2ordinal — norm2ordinal"><meta property="og:description" content="Transforms a vector with a normal distribution to a binomial distribution with two values."><meta property="og:image" content="https://dbaranger.github.io/InteractionPoweR/logo.png"><meta name="twitter:card" content="summary"><meta name="twitter:creator" content="@David_Baranger"><meta name="twitter:site" content="@David_Baranger"><!-- mathjax --><script src="https://cdnjs.cloudflare.com/ajax/libs/mathjax/2.7.5/MathJax.js" integrity="sha256-nvJJv9wWKEm88qvoQl9ekL2J+k/RWIsaSScxxlsrv8k=" crossorigin="anonymous"></script><script src="https://cdnjs.cloudflare.com/ajax/libs/mathjax/2.7.5/config/TeX-AMS-MML_HTMLorMML.js" integrity="sha256-84DKXVJXs0/F8OTMzX4UR909+jtl4G7SPypPavF+GfA=" crossorigin="anonymous"></script><!--[if lt IE 9]>
+<script src="https://oss.maxcdn.com/html5shiv/3.7.3/html5shiv.min.js"></script>
+<script src="https://oss.maxcdn.com/respond/1.4.2/respond.min.js"></script>
+<![endif]--><!-- Global site tag (gtag.js) - Google Analytics --><script async src="https://www.googletagmanager.com/gtag/js?id=G-36JVDTC1K0"></script><script>
+  window.dataLayer = window.dataLayer || [];
+  function gtag(){dataLayer.push(arguments);}
+  gtag('js', new Date());
+
+  gtag('config', 'G-36JVDTC1K0');
+</script></head><body data-spy="scroll" data-target="#toc">
+    
+
+    <div class="container template-reference-topic">
+      <header><div class="navbar navbar-default navbar-fixed-top" role="navigation">
+  <div class="container">
+    <div class="navbar-header">
+      <button type="button" class="navbar-toggle collapsed" data-toggle="collapse" data-target="#navbar" aria-expanded="false">
+        <span class="sr-only">Toggle navigation</span>
+        <span class="icon-bar"></span>
+        <span class="icon-bar"></span>
+        <span class="icon-bar"></span>
+      </button>
+      <span class="navbar-brand">
+        <a class="navbar-link" href="../index.html">InteractionPoweR</a>
+        <span class="version label label-default" data-toggle="tooltip" data-placement="bottom" title="">0.1.0.5</span>
+      </span>
+    </div>
+
+    <div id="navbar" class="navbar-collapse collapse">
+      <ul class="nav navbar-nav"><li>
+  <a href="../reference/index.html">Reference</a>
+</li>
+<li class="dropdown">
+  <a href="#" class="dropdown-toggle" data-toggle="dropdown" role="button" aria-expanded="false">
+    Articles
+     
+    <span class="caret"></span>
+  </a>
+  <ul class="dropdown-menu" role="menu"><li>
+      <a href="../articles/InteractionPoweRvignette.html">The InteractionPoweR Package</a>
+    </li>
+    <li>
+      <a href="../articles/CommonQuestions.html">Questions &amp; Errors</a>
+    </li>
+  </ul></li>
+      </ul><ul class="nav navbar-nav navbar-right"><li>
+  <a href="https://github.com/dbaranger/InteractionPoweR/" class="external-link">
+    <span class="fab fa-github fa-lg"></span>
+     
+  </a>
+</li>
+      </ul><form class="navbar-form navbar-right hidden-xs hidden-sm" role="search">
+        <div class="form-group">
+          <input type="search" class="form-control" name="search-input" id="search-input" placeholder="Search..." aria-label="Search for..." autocomplete="off"></div>
+      </form>
+      
+    </div><!--/.nav-collapse -->
+  </div><!--/.container -->
+</div><!--/.navbar -->
+
+      
+
+      </header><div class="row">
+  <div class="col-md-9 contents">
+    <div class="page-header">
+    <h1>norm2ordinal</h1>
+    <small class="dont-index">Source: <a href="https://github.com/dbaranger/InteractionPoweR/blob/HEAD/R/transformation_functions.R" class="external-link"><code>R/transformation_functions.R</code></a></small>
+    <div class="hidden name"><code>norm2ordinal.Rd</code></div>
+    </div>
+
+    <div class="ref-description">
+    <p>Transforms a vector with a normal distribution to a binomial distribution with two values.</p>
+    </div>
+
+    <div id="ref-usage">
+    <div class="sourceCode"><pre class="sourceCode r"><code><span class="fu">norm2ordinal</span><span class="op">(</span><span class="va">x</span>, <span class="va">skew</span>, <span class="va">k</span><span class="op">)</span></code></pre></div>
+    </div>
+
+    <div id="arguments">
+    <h2>Arguments</h2>
+    <dl><dt>x</dt>
+<dd><p>Input vector</p></dd>
+<dt>skew</dt>
+<dd><p>Desired output skew</p></dd>
+<dt>k</dt>
+<dd><p>Number of discrete values (e.g., 2=binary, 5=ordinal scale)</p></dd>
+</dl></div>
+    <div id="value">
+    <h2>Value</h2>
+    <p>A ordinal or binary variable</p>
+    </div>
+
+    <div id="ref-examples">
+    <h2>Examples</h2>
+    <div class="sourceCode"><pre class="sourceCode r"><code><span class="r-in"><span class="kw">if</span> <span class="op">(</span><span class="cn">FALSE</span><span class="op">)</span> <span class="op">{</span></span>
+<span class="r-in"><span class="fu">norm2ordinal</span><span class="op">(</span>x <span class="op">=</span> <span class="fu"><a href="https://rdrr.io/r/stats/Normal.html" class="external-link">rnorm</a></span><span class="op">(</span>n <span class="op">=</span> <span class="fl">100</span>,mean <span class="op">=</span> <span class="fl">0</span>,sd <span class="op">=</span> <span class="fl">1</span><span class="op">)</span>, skew <span class="op">=</span> <span class="fl">1</span>,k<span class="op">=</span><span class="fl">2</span><span class="op">)</span></span>
+<span class="r-in"><span class="op">}</span></span>
+</code></pre></div>
+    </div>
+  </div>
+  <div class="col-md-3 hidden-xs hidden-sm" id="pkgdown-sidebar">
+    <nav id="toc" data-toggle="toc" class="sticky-top"><h2 data-toc-skip>Contents</h2>
+    </nav></div>
+</div>
+
+
+      <footer><div class="copyright">
+  <p></p><p>Developed by David Baranger.</p>
+</div>
+
+<div class="pkgdown">
+  <p></p><p>Site built with <a href="https://pkgdown.r-lib.org/" class="external-link">pkgdown</a> 2.0.2.</p>
+</div>
+
+      </footer></div>
+
+  
+<script src="https://cdnjs.cloudflare.com/ajax/libs/docsearch.js/2.6.1/docsearch.min.js" integrity="sha256-GKvGqXDznoRYHCwKXGnuchvKSwmx9SRMrZOTh2g4Sb0=" crossorigin="anonymous"></script><script>
+  docsearch({
+    
+    
+    apiKey: 'd9b5db6cf281b0bbf8f497a463b0d116',
+    indexName: 'interactionpower',
+    inputSelector: 'input#search-input.form-control',
+    transformData: function(hits) {
+      return hits.map(function (hit) {
+        hit.url = updateHitURL(hit);
+        return hit;
+      });
+    }
+  });
+</script></body></html>
+

diff --git a/docs/reference/index.html b/docs/reference/index.html
@@ -132,9 +132,9 @@
         </td>
         <td><p>norm2gamma</p></td>
       </tr><tr><td>
-          <p><code><a href="norm2likert.html">norm2likert()</a></code> </p>
+          <p><code><a href="norm2ordinal.html">norm2ordinal()</a></code> </p>
         </td>
-        <td><p>norm2likert</p></td>
+        <td><p>norm2ordinal</p></td>
       </tr></tbody></table></div>
 
   <div class="col-md-3 hidden-xs hidden-sm" id="pkgdown-sidebar">
